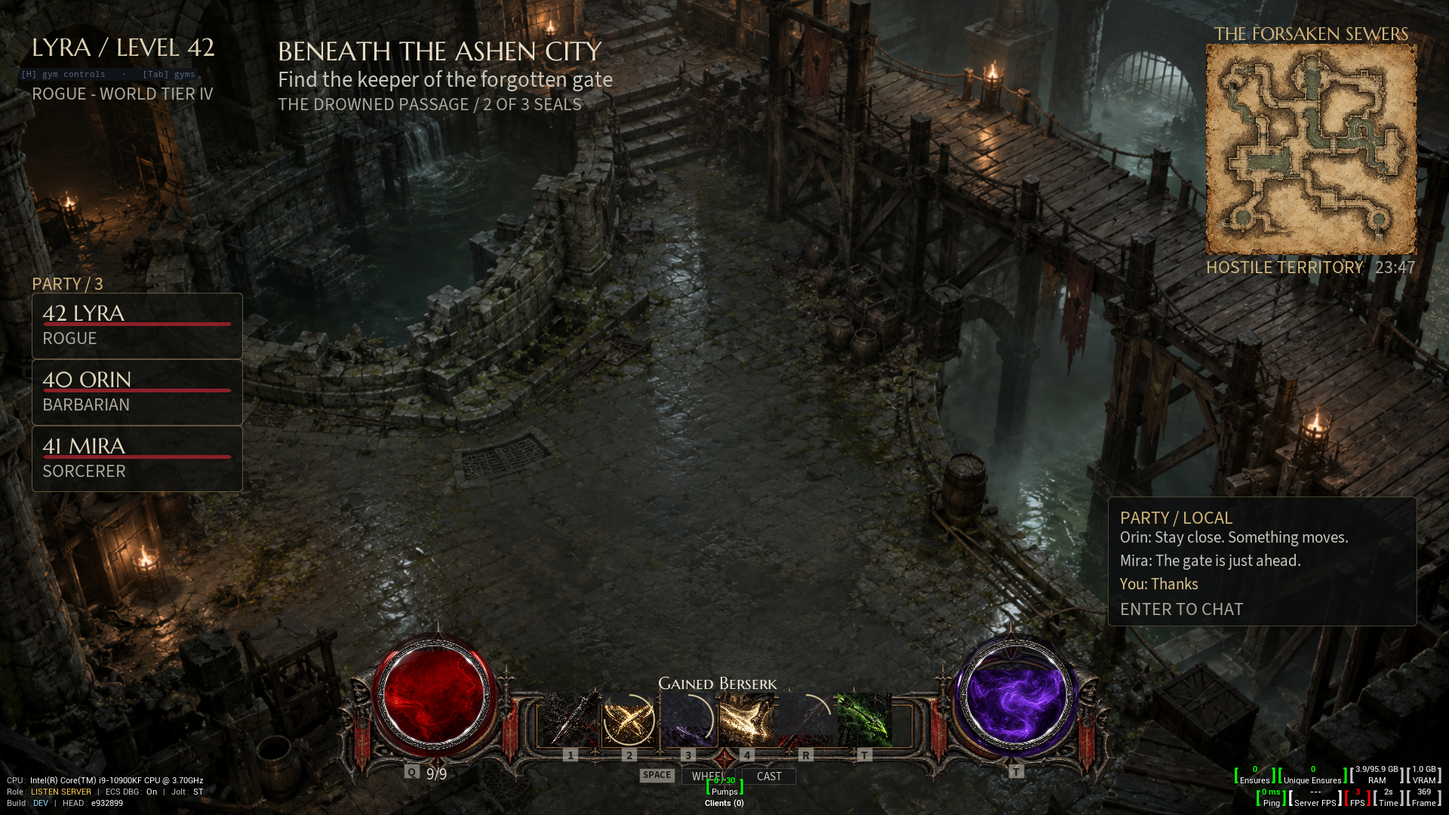
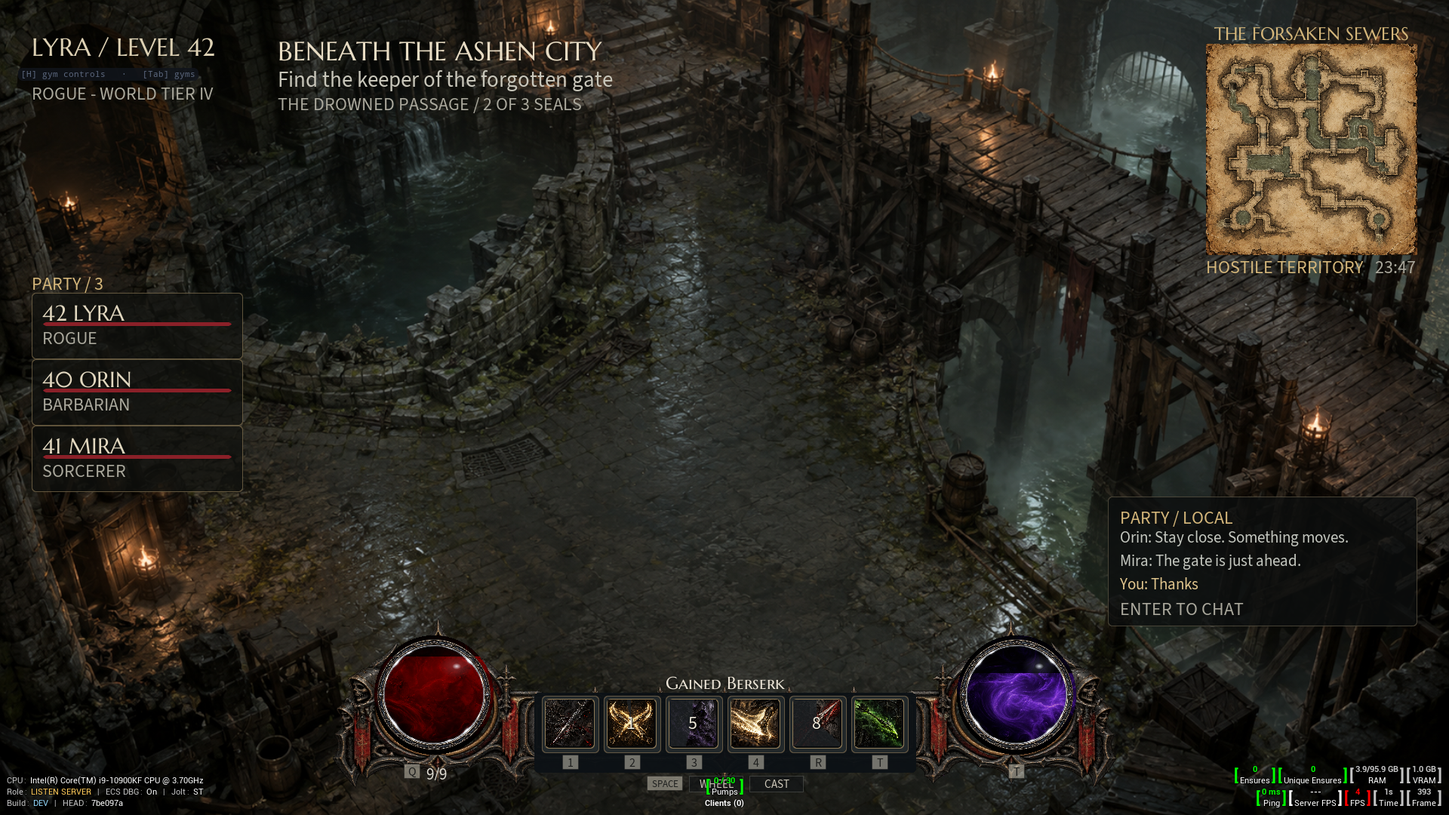
docs(ui): record animated HUD proof and remaining limits
Refresh the widget breakdown and native captures at three resolutions, including two orb animation frames. Record the final focused pass and wider 243/246 result with the same three prior failures. Distinguish verified rendering from remaining artwork fidelity, packaging, and DX12 startup gaps.

Changed region(s): [[0.375, 0.7639, 0.75, 0.9778], [0.25, 0.7639, 0.3438, 0.9472], [0.0625, 0.9778, 0.0938, 1.0]]

diff --git a/Documentation/UI/DarkFantasyHudProof/widget-breakdown.md b/Documentation/UI/DarkFantasyHudProof/widget-breakdown.md
@@ -1,108 +1,102 @@
 # Widget breakdown
 
-The UMG shell is `FantasyOverlay` (`UOverlay`), `FantasyBackdropScale` (`UScaleBox`), `FantasyBackdrop` (`UImage`), `FantasyScale` (`UScaleBox`), `FantasyFrame` (`USizeBox`, 1920×1080), and `FantasySurface` (`UCk_UI_AuthoredSurface_UE`). Every HUD label and control below belongs to the code-authored main region. The backdrop is scenery only.
+The UMG shell creates the scenery backdrop and a ScaleToFit 1920 x 1080 authored surface. The main region has 79 source IDs. The six spell use IDs appear below; template-local IDs are separate because the contract validator inventories only the region source tree.
 
-| Widget id | Tag | Parent | Binding / visibility / action / class | Text or role |
+The spell-slot template declares image art, number cooldown, number remaining, and literal key parameters. Each instance expands to slot (column), frame (column), inlay (column), art (hud-ability), and key (key-hint). CSS sizes the nested frame at 76 x 76, inlay at 66 x 66, and art at 62 x 62. The key hint is a centered native text widget; only an authored action makes it interactive.
+
+| Instance | Art | Cooldown fraction | Seconds remaining | Key |
 | --- | --- | --- | --- | --- |
-| `fantasy-root` | `overlay` | `shell` | — | — |
-| `ornamental-frame` | `hud-graphic` | `fantasy-root` | image-bind=HudFrame | — |
-| `hud-layout` | `column` | `fantasy-root` | — | — |
-| `header` | `row` | `hud-layout` | — | — |
-| `player-header` | `column` | `header` | — | — |
-| `player-name` | `text` | `player-header` | — | LYRA / LEVEL 42 |
-| `player-class` | `text` | `player-header` | — | ROGUE - WORLD TIER IV |
-| `quest` | `column` | `header` | — | — |
-| `quest-title` | `text` | `quest` | — | BENEATH THE ASHEN CITY |
-| `quest-objective` | `text` | `quest` | — | Find the keeper of the forgotten gate |
-| `quest-progress` | `text` | `quest` | — | THE DROWNED PASSAGE / 2 OF 3 SEALS |
-| `map-panel` | `column` | `header` | — | — |
-| `map-title` | `text` | `map-panel` | — | THE FORSAKEN SEWERS |
-| `minimap` | `hud-graphic` | `map-panel` | image-bind=Minimap | — |
-| `map-meta` | `row` | `map-panel` | — | — |
-| `map-danger` | `text` | `map-meta` | — | HOSTILE TERRITORY |
-| `map-time` | `text` | `map-meta` | — | 23:47 |
-| `playfield` | `row` | `hud-layout` | — | — |
-| `party` | `column` | `playfield` | — | — |
-| `party-title` | `text` | `party` | — | PARTY / 3 |
-| `party-lyra` | `column` | `party` | — | — |
-| `party-lyra-name` | `text` | `party-lyra` | — | 42  LYRA |
-| `party-lyra-vitals` | `column` | `party-lyra` | — | — |
-| `party-lyra-class` | `text` | `party-lyra` | — | ROGUE |
-| `party-orin` | `column` | `party` | — | — |
-| `party-orin-name` | `text` | `party-orin` | — | 40  ORIN |
-| `party-orin-vitals` | `column` | `party-orin` | — | — |
-| `party-orin-class` | `text` | `party-orin` | — | BARBARIAN |
-| `party-mira` | `column` | `party` | — | — |
-| `party-mira-name` | `text` | `party-mira` | — | 41  MIRA |
-| `party-mira-vitals` | `column` | `party-mira` | — | — |
-| `party-mira-class` | `text` | `party-mira` | — | SORCERER |
-| `playfield-spacer` | `column` | `playfield` | — | — |
-| `chat-zone` | `column` | `playfield` | — | — |
-| `chat-top-space` | `column` | `chat-zone` | — | — |
-| `chat` | `column` | `chat-zone` | — | — |
-| `chat-channel` | `text` | `chat` | — | PARTY / LOCAL |
-| `chat-orin` | `text` | `chat` | — | Orin: Stay close. Something moves. |
-| `chat-mira` | `text` | `chat` | — | Mira: The gate is just ahead. |
-| `chat-action` | `text` | `chat` | bind=ActionStatus | — |
-| `chat-hint` | `text` | `chat` | — | ENTER TO CHAT |
-| `bottom-hud` | `row` | `hud-layout` | — | — |
-| `health-panel` | `column` | `bottom-hud` | — | — |
-| `health-orb` | `hud-orb` | `health-panel` | value-bind=HealthFraction, liquid-bind=OrbHealth, frame-bind=OrbBezel | — |
-| `potion-hint` | `row` | `health-panel` | — | — |
-| `potion-keycap` | `column` | `potion-hint` | — | — |
-| `potion-key` | `text` | `potion-keycap` | — | Q |
-| `potion-count` | `text` | `potion-hint` | — | 9/9 |
-| `hotbar-panel` | `column` | `bottom-hud` | — | — |
-| `hotbar-caption` | `text` | `hotbar-panel` | — | Gained Berserk |
-| `hotbar` | `row` | `hotbar-panel` | — | — |
-| `skill-1` | `column` | `hotbar` | — | — |
-| `ability-cut` | `hud-ability` | `skill-1` | cooldown-bind=CooldownReady, image-bind=AbilityCut | — |
-| `skill-1-keycap` | `column` | `skill-1` | — | — |
-| `skill-1-key` | `text` | `skill-1-keycap` | — | 1 |
-| `skill-2` | `column` | `hotbar` | — | — |
-| `ability-flurry` | `hud-ability` | `skill-2` | cooldown-bind=CooldownFlurry, image-bind=AbilityFlurry | — |
-| `skill-2-keycap` | `column` | `skill-2` | — | — |
-| `skill-2-key` | `text` | `skill-2-keycap` | — | 2 |
-| `skill-3` | `column` | `hotbar` | — | — |
-| `ability-shadow` | `hud-ability` | `skill-3` | cooldown-bind=SkillCooldown, image-bind=AbilityShadow | — |
-| `skill-3-keycap` | `column` | `skill-3` | — | — |
-| `skill-3-key` | `text` | `skill-3-keycap` | — | 3 |
-| `skill-4` | `column` | `hotbar` | — | — |
-| `ability-dash` | `hud-ability` | `skill-4` | cooldown-bind=CooldownReady, image-bind=AbilityDash | — |
-| `skill-4-keycap` | `column` | `skill-4` | — | — |
-| `skill-4-key` | `text` | `skill-4-keycap` | — | 4 |
-| `skill-left` | `column` | `hotbar` | — | — |
-| `ability-strike` | `hud-ability` | `skill-left` | cooldown-bind=CooldownStrike, image-bind=AbilityStrike | — |
-| `skill-left-keycap` | `column` | `skill-left` | — | — |
-| `skill-left-key` | `text` | `skill-left-keycap` | — | R |
-| `skill-right` | `column` | `hotbar` | — | — |
-| `ability-pierce` | `hud-ability` | `skill-right` | cooldown-bind=CooldownReady, image-bind=AbilityPierce | — |
-| `skill-right-keycap` | `column` | `skill-right` | — | — |
-| `skill-right-key` | `text` | `skill-right-keycap` | — | T |
-| `utility-row` | `row` | `hotbar-panel` | — | — |
-| `evade-keycap` | `column` | `utility-row` | — | — |
-| `evade-hint` | `text` | `evade-keycap` | — | SPACE |
-| `open-wheel` | `button` | `utility-row` | action=OpenWheel | WHEEL |
-| `advance-cooldown` | `button` | `utility-row` | action=AdvanceCooldown | CAST |
-| `mana-panel` | `column` | `bottom-hud` | — | — |
-| `mana-orb` | `hud-orb` | `mana-panel` | value-bind=ManaFraction, liquid-bind=OrbEnergy, frame-bind=OrbBezel | — |
-| `resource-keycap` | `column` | `mana-panel` | — | — |
-| `resource-hint` | `text` | `resource-keycap` | — | T |
-| `wheel-zone` | `column` | `fantasy-root` | visible=WheelOpen | — |
-| `wheel-dots` | `row` | `wheel-zone` | — | — |
-| `dot-active` | `text` | `wheel-dots` | — | ● |
-| `dot-two` | `text` | `wheel-dots` | — | ● |
-| `dot-three` | `text` | `wheel-dots` | — | ● |
-| `wheel-stage` | `overlay` | `wheel-zone` | — | — |
-| `wheel-vignette` | `hud-graphic` | `wheel-stage` | image-bind=WheelVignette, visible=WheelOpen | — |
-| `interaction-wheel` | `radial-selector` | `wheel-stage` | items-bind=Interactions, selection-bind=Selection, select=SelectInteraction, activate=ActivateInteraction, visible=WheelOpen, font-family=fantasy-ui | — |
-| `wheel-center` | `column` | `interaction-wheel` | — | — |
-| `center-top-space` | `column` | `wheel-center` | — | — |
-| `center-disc` | `column` | `wheel-center` | — | — |
-| `close-wheel` | `button` | `center-disc` | action=CloseWheel | E |
-| `wheel-close-label` | `text` | `center-disc` | — | Close |
-| `center-bottom-space` | `column` | `wheel-center` | — | — |
-| `customize-shell` | `column` | `wheel-zone` | — | — |
-| `customize-wheel` | `button` | `customize-shell` | action=ResetFixture | CUSTOMIZE |
+| skill-1 | AbilityCut | CooldownReady | RemainingReady | 1 |
+| skill-2 | AbilityFlurry | CooldownFlurry | RemainingFlurry | 2 |
+| skill-3 | AbilityShadow | SkillCooldown | RemainingShadow | 3 |
+| skill-4 | AbilityDash | CooldownReady | RemainingReady | 4 |
+| skill-left | AbilityStrike | CooldownStrike | RemainingStrike | R |
+| skill-right | AbilityPierce | CooldownReady | RemainingReady | T |
 
-`interaction-wheel` also renders eight keyed native collection records. Each record has `actor:Text`, `glyph:Text`, `angle:Number`, `cooldown:Number`, `enabled:Bool`, `queued:Bool`, and `image:Image`. The image field carries its ivory gesture art; actor labels and the selection wedge remain live. The `wheel-center` content slot owns the E/Close control. Six `hud-ability` controls each bind live cooldown state and generated spell art. Two `hud-orb` controls bind live values, generated liquid art, and a shared generated bezel. The keycap columns provide translucent backgrounds while their intrinsic-width text children center the glyphs.
+Shadow, flurry, and strike start at 6.2/10, 1.92/8, and 9.36/12 seconds. Widget Tick decrements seconds and derives the fractions; ready slots stay at zero. CAST and gym key 0 restart shadow at 10 seconds. Reset restores the initial values.
+
+The orb maps moving liquid UVs onto circular geometry under fixed lighting and a separate glass highlight, with the fill clipped by its bound fraction. The spell uses a clockwise radial cooldown mask and a centered remaining-seconds label while active. Current visual verification is pending; earlier screenshots predate this revision.
+
+| Widget ID | Tag | Parent | Source binding, action, or literal |
+| --- | --- | --- | --- |
+| fantasy-root | overlay | main region | - |
+| ornamental-frame | hud-graphic | fantasy-root | image-bind=HudFrame |
+| hud-layout | column | fantasy-root | - |
+| header | row | hud-layout | - |
+| player-header | column | header | - |
+| player-name | text | player-header | text=LYRA / LEVEL 42 |
+| player-class | text | player-header | text=ROGUE - WORLD TIER IV |
+| quest | column | header | - |
+| quest-title | text | quest | text=BENEATH THE ASHEN CITY |
+| quest-objective | text | quest | text=Find the keeper of the forgotten gate |
+| quest-progress | text | quest | text=THE DROWNED PASSAGE / 2 OF 3 SEALS |
+| map-panel | column | header | - |
+| map-title | text | map-panel | text=THE FORSAKEN SEWERS |
+| minimap | hud-graphic | map-panel | image-bind=Minimap |
+| map-meta | row | map-panel | - |
+| map-danger | text | map-meta | text=HOSTILE TERRITORY |
+| map-time | text | map-meta | text=23:47 |
+| playfield | row | hud-layout | - |
+| party | column | playfield | - |
+| party-title | text | party | text=PARTY / 3 |
+| party-lyra | column | party | - |
+| party-lyra-name | text | party-lyra | text=42  LYRA |
+| party-lyra-vitals | column | party-lyra | - |
+| party-lyra-class | text | party-lyra | text=ROGUE |
+| party-orin | column | party | - |
+| party-orin-name | text | party-orin | text=40  ORIN |
+| party-orin-vitals | column | party-orin | - |
+| party-orin-class | text | party-orin | text=BARBARIAN |
+| party-mira | column | party | - |
+| party-mira-name | text | party-mira | text=41  MIRA |
+| party-mira-vitals | column | party-mira | - |
+| party-mira-class | text | party-mira | text=SORCERER |
+| playfield-spacer | column | playfield | - |
+| chat-zone | column | playfield | - |
+| chat-top-space | column | chat-zone | - |
+| chat | column | chat-zone | - |
+| chat-channel | text | chat | text=PARTY / LOCAL |
+| chat-orin | text | chat | text=Orin: Stay close. Something moves. |
+| chat-mira | text | chat | text=Mira: The gate is just ahead. |
+| chat-action | text | chat | bind=ActionStatus |
+| chat-hint | text | chat | text=ENTER TO CHAT |
+| bottom-hud | row | hud-layout | - |
+| health-panel | column | bottom-hud | - |
+| health-orb | hud-orb | health-panel | value-bind=HealthFraction, liquid-bind=OrbHealth, frame-bind=OrbBezel |
+| potion-hint | row | health-panel | - |
+| potion-key | key-hint | potion-hint | label=Q, font-family=fantasy-ui |
+| potion-count | text | potion-hint | text=9/9 |
+| hotbar-panel | column | bottom-hud | - |
+| hotbar-caption | text | hotbar-panel | text=Gained Berserk |
+| hotbar | row | hotbar-panel | - |
+| skill-1 | use | hotbar | template=spell-slot, art-bind=AbilityCut, cooldown-bind=CooldownReady, remaining-bind=RemainingReady, key=1 |
+| skill-2 | use | hotbar | template=spell-slot, art-bind=AbilityFlurry, cooldown-bind=CooldownFlurry, remaining-bind=RemainingFlurry, key=2 |
+| skill-3 | use | hotbar | template=spell-slot, art-bind=AbilityShadow, cooldown-bind=SkillCooldown, remaining-bind=RemainingShadow, key=3 |
+| skill-4 | use | hotbar | template=spell-slot, art-bind=AbilityDash, cooldown-bind=CooldownReady, remaining-bind=RemainingReady, key=4 |
+| skill-left | use | hotbar | template=spell-slot, art-bind=AbilityStrike, cooldown-bind=CooldownStrike, remaining-bind=RemainingStrike, key=R |
+| skill-right | use | hotbar | template=spell-slot, art-bind=AbilityPierce, cooldown-bind=CooldownReady, remaining-bind=RemainingReady, key=T |
+| utility-row | row | hotbar-panel | - |
+| evade-hint | key-hint | utility-row | label=SPACE, font-family=fantasy-ui |
+| open-wheel | button | utility-row | action=OpenWheel, text=WHEEL |
+| advance-cooldown | button | utility-row | action=AdvanceCooldown, text=CAST |
+| mana-panel | column | bottom-hud | - |
+| mana-orb | hud-orb | mana-panel | value-bind=ManaFraction, liquid-bind=OrbEnergy, frame-bind=OrbBezel |
+| resource-hint | key-hint | mana-panel | label=T, font-family=fantasy-ui |
+| wheel-zone | column | fantasy-root | visible=WheelOpen |
+| wheel-dots | row | wheel-zone | - |
+| dot-active | text | wheel-dots | text=● |
+| dot-two | text | wheel-dots | text=● |
+| dot-three | text | wheel-dots | text=● |
+| wheel-stage | overlay | wheel-zone | - |
+| wheel-vignette | hud-graphic | wheel-stage | image-bind=WheelVignette, visible=WheelOpen |
+| interaction-wheel | radial-selector | wheel-stage | items-bind=Interactions, selection-bind=Selection, select=SelectInteraction, activate=ActivateInteraction, visible=WheelOpen, font-family=fantasy-ui |
+| wheel-center | column | interaction-wheel | - |
+| center-top-space | column | wheel-center | - |
+| center-disc | column | wheel-center | - |
+| close-wheel | key-hint | center-disc | label=E, action=CloseWheel, font-family=fantasy-ui |
+| wheel-close-label | text | center-disc | text=Close |
+| center-bottom-space | column | wheel-center | - |
+| customize-shell | column | wheel-zone | - |
+| customize-wheel | button | customize-shell | action=ResetFixture, text=CUSTOMIZE |
+
+The interaction-wheel renders eight collection records keyed by greet, thanks, follow, wait, help, trade, inspect, and leave. Each record has text actor/glyph, numeric angle/cooldown, bool enabled/queued, and image art. The wheel-center slot contains the actionable E key hint and Close label.

diff --git a/Documentation/UI/DarkFantasyHudProof/pipeline-findings.md b/Documentation/UI/DarkFantasyHudProof/pipeline-findings.md
@@ -1,21 +1,22 @@
 # Pipeline findings and limits
 
-The existing HTML/CSS-to-Slate pipeline can drive this in-game UMG composition through code. The gym uses the same retained session, source admission, mount, reload, and action routing as the earlier proofs. HTML supplies hierarchy; CSS supplies dimensions, color, alignment, font families, opacity, and control styling; AngelScript supplies data, artwork, and behavior. No per-widget Blueprint graph or editor authoring is needed for this fixture.
+The HTML/CSS-to-Slate pipeline drives this UMG composition with a retained authored session. HTML declares hierarchy, templates, bindings, and actions; CSS supplies geometry, color, typography, and native custom styles; AngelScript supplies data, art, timer state, and lifecycle. The shell supplies scenery and scales the authored surface. The [source inventory](widget-breakdown.md) and [contract](design-contract.json) reflect the current markup.
 
-This proof exposed capability gaps and led to reusable native extensions:
-
-| Need from reference | Pipeline addition | Current evidence |
+| Need | Shared implementation | Current source behavior |
 | --- | --- | --- |
-| Red and violet potion-like resource orbs | `<hud-orb>` binds a value, liquid image, and frame image; native renderer clips liquid vertically and smooths the transition | Focused PIE and 720p/1080p/1350p captures show live artwork in circular frames |
-| Spell artwork with graphical timers | `<hud-ability>` binds artwork and cooldown; native renderer draws a dark shade and progress rim | Six separate cooldown bindings exercised in the gym |
-| Illustrated wheel options | Reflected collection `Image` field retains a texture brush and checks invalid/no-op replacements atomically; radial selector reads per-record image | Collection-image roundtrip/rejection test passed; eight icon images appear in the wheel |
-| Translucent segmented wheel with exact labels | `-ck-radial-fantasy-mode` adds wedge, spokes, ring, external labels, and icon painting; radial font-family resolves the admitted authored font | Focused PIE and real-renderer captures passed |
-| Centered, faint key hints | Authored keycap containers with intrinsic-width text; translucent RGBA CSS color | Latest captures show smaller, centered labels without fully opaque blocks |
+| Circular red and violet resource orbs | hud-orb binds fraction, liquid image, and bezel image; a circular mesh animates liquid UVs under fixed lighting, with a stationary glass highlight | Script health and mana changes drive vertically clipped fills; final rendered captures and phase comparison verify moving liquid |
+| Six framed spells with visible cooldown | One spell-slot template expands into frame, inlay, hud-ability, and key-hint; hud-ability draws a clockwise radial mask and remaining-seconds label | Six instances bind art, fraction, seconds, and key; shadow/flurry/strike tick at 10/8/12-second durations, ready slots stay zero |
+| Consistent key legends | Reusable retained key-hint supports literal label, admitted font family, CSS styling, and optional action | E closes the wheel; spell, potion, resource, and SPACE hints are passive; native text measurement centers all labels |
+| Centered caption text | Shared authored text-align: center maps to native text justification | Hotbar caption declares the property; native text alignment test passed |
+| Illustrated wheel options | Collection Image field retains an admitted texture brush; radial selector reads record images and admitted font | Eight keyed images and labels are declared; previous collection-image rejection test passed |
+| Fantasy wheel geometry | Radial fantasy mode paints wedge, spokes, ring, labels, and icons beneath the center slot | final focused renderer captures retain the wheel and show a centered E hint |
 
-The user's hotbar observation exposed a separate **composition limit**. The six spells already use a nested horizontal `row` of per-spell `column` widgets, so flex layout is doing its job. Their borders, however, are baked into one large `ornamental-hud-frame.png` image behind the row. Layout knows only that image's rectangle; it cannot infer the six transparent apertures inside it. The earlier art row sat above those apertures. We matched the row's width, padding, gap, tile size, and vertical placement to the image, and the latest captures show the tiles in the openings. This is authored coordinate matching, not a reusable constraint between image features and child slots. For a production HUD, use six individually composed slot frames or add explicit slot metadata/anchors to the art asset so slot geometry and content share one source of truth. A plain nested horizontal box cannot discover raster openings on its own.
+Each spell frame is now authored as a nested box around its art, so the border, inlay, and content share layout geometry. The ornamental frame remains separate artwork behind the bar; a continuous authored backing covers its central apertures, and the six new slot frames own their content bounds. Dedicated ornamental slot artwork would improve fidelity without changing the layout contract. The previous offset between spell art and apertures was an authoring alignment issue, not a failure of the row layout.
 
-Text backgrounds also exposed a grammar limit: the current `<text>` styling does not provide a text-align property for glyph alignment inside a fixed-width text widget. `horizontal-align` positions the widget in its parent. Removing the text width lets the parent center its intrinsic text widget. Ordinary `<button>` supports `-ck-button-text-align` and `-ck-button-content-vertical-align`. The container workaround is adequate here, but a true text alignment property would be useful for localized key hints and dynamic labels.
+The orb and cooldown geometry is reusable native rendering code rather than baked animation. The orb's UV motion and lighting field are separate, which keeps the highlight fixed while liquid moves. The mask and timer read live scalar bindings. The authored session currently offers individual TrySetNumber calls rather than a batch scalar update; the gym retires the surface if a required cooldown publication fails, so a partially updated display does not continue running.
 
-Other limits remain: the minimap, party list, quest, clock, and chat are illustrative; the reference game art and proprietary font were not copied; the 1920×1080 fixed canvas needs safe-zone, aspect-ratio, and type-size rules for shipping; live gameplay adapters and cooked resource packaging are unproven. The current wheel and generated art are visually related to the reference, not pixel-matched. The source validator checks IDs, classes, and selector shape but leaves declarations, bindings, and rendering to runtime admission and tests. DX12 rendered testing remains blocked by a startup shader-frequency assertion; the cause is not established.
+The minimap, party list, quest, clock, and chat remain illustrative. The reference game's artwork and proprietary font were not copied. The fixed 1920 x 1080 canvas still needs shipping safe-zone, aspect-ratio, and type-size rules, live gameplay adapters, and cooked resource verification. The generated art and frame topology do not establish a pixel match to the supplied reference.
 
-Failure behavior remains atomic where it matters: the collection image adapter rejects invalid textures without publishing a partial collection, preserves the previous brush on no-op records, and retains valid texture resources. The gym releases its session on required startup failure and on shutdown. Its invalid-source action verifies that a rejected document does not replace the admitted live UI. The final wide run's three non-HUD failures (`PauseMenuProof.GymSelector.PIE`, `ScriptedCollection.PIE`, `ScriptingCard.PIE`) need isolated triage before any repository-wide regression claim; the preceding wide run had a different set of non-HUD failures.
+Verification on 2026-10-07: incremental C++ build passed; the 246-test UI-authoring run passed 243, including the new key-hint, text-alignment, and mesh tests. The same prior pause-menu and two capture-bound failures remained. Visual inspection caught that a null texture proxy caused color-only meshes to be skipped; allowing Slate's white fallback fixed both cooldown shade and glass lobes. The final focused DarkFantasy run passed 3/3 with an added real-pixel cooldown regression and captures at 720p, 1080p, and 1350p. Texture-region pixel comparisons confirm animation. This is focused verification, not a repository-wide green verdict.
+
+The template-aware source validator and its 18 Python tests pass. Runtime admission still owns widget property types and values. DX12 previously stopped at an engine startup shader-frequency assertion; the final visual run used DX11 temporarily, and the original config was restored exactly.

diff --git a/Documentation/UI/DarkFantasyHudProof/README.md b/Documentation/UI/DarkFantasyHudProof/README.md
@@ -1,13 +1,17 @@
 # Dark fantasy action RPG HUD proof
 
-Select `UI: Dark Fantasy HUD` in the CkTests gym selector. This is a code-authored attempt to reproduce the structure and interactions of the supplied action-RPG reference. The native UMG shell holds only the scene backdrop and a 1920×1080 `UCk_UI_AuthoredSurface_UE` in a `ScaleToFit` box. [Markup](../../../Resources/UiAuthoring/DarkFantasyHudProof/DarkFantasyHudProof.ui.html) defines the widget tree and content; [CSS](../../../Resources/UiAuthoring/DarkFantasyHudProof/DarkFantasyHudProof.ui.css) sets layout and appearance; [AngelScript](../../../Script/CkUiAuthoring/CkDarkFantasyHud_Gym.as) owns state, resources, actions, and teardown. The UI is rendered as live widgets, not a flattened screenshot.
+Select UI: Dark Fantasy HUD in the CkTests gym selector. The native UMG shell contains the scenery backdrop and a 1920 x 1080 authored surface in a ScaleToFit box. [Markup](../../../Resources/UiAuthoring/DarkFantasyHudProof/DarkFantasyHudProof.ui.html) owns the HUD hierarchy and content, [CSS](../../../Resources/UiAuthoring/DarkFantasyHudProof/DarkFantasyHudProof.ui.css) owns layout and appearance, and [AngelScript](../../../Script/CkUiAuthoring/CkDarkFantasyHud_Gym.as) owns state, art resources, actions, and teardown. These are live widgets, not a flattened screenshot.
 
-The proof includes a party panel, quest text, minimap, chat, two vertically filled animated liquid orbs, six image-backed spells with graphical cooldowns, key hints, and an eight-sector interaction wheel. The wheel uses a translucent vignette, thin sector lines, a highlighted red wedge, collection-backed icon images, external labels, and a center E/Close control. It is open by default. The hotbar's `CAST` action and gym key 0 advance the cooldown demonstration; damage, healing, and mana actions animate the orbs. `CUSTOMIZE` resets the fixture. UI text uses bundled OFL-licensed [Marcellus SC](https://github.com/google/fonts/tree/main/ofl/marcellussc) and [Source Sans 3](https://github.com/adobe-fonts/source-sans); the font licenses ship with the resources.
+The main region has 79 source IDs. A reusable spell-slot template composes each of six spells from an outer frame, inner inlay, image-backed hud-ability, and shared native key-hint. The active abilities use a clockwise cooldown mask and centered seconds label. Shadow, flurry, and strike start with 6.2/10, 1.92/8, and 9.36/12 seconds remaining; script Tick advances them. Ready slots remain at zero. CAST and gym key 0 restart shadow at 10 seconds. CUSTOMIZE and gym key 7 restore the fixture. The reusable key-hint centers a literal label and accepts an optional action; the wheel's E hint closes the wheel, while passive hints label the spells and resources. Authored text supports text-align: center for the hotbar caption.
 
-Gym keys: 1 toggles the wheel, 2 damages, 3 heals, 4 spends mana, 5 selects the next interaction, 6 activates it, 7 resets, 8 reloads source, 9 attempts an invalid source, and 0 advances a spell cooldown. The radial control also supports native pointer and keyboard selection. No game abilities, party AI, quest system, or map navigation are simulated.
+The health and mana orbs use circular geometry with animated liquid UVs under fixed lighting, clipped fill, and a separate glass highlight. The wheel uses a translucent vignette, sector art and labels, eight collection-backed icon images, and a center E/Close control. It opens by default. Bundled OFL-licensed [Marcellus SC](https://github.com/google/fonts/tree/main/ofl/marcellussc) and [Source Sans 3](https://github.com/adobe-fonts/source-sans) supply authored typography; their licenses ship with the resources.
 
-The most recent real-renderer captures are [720p](Captures/open-1280x720.png), [1080p](Captures/open-1920x1080.png), [1350p](Captures/open-2400x1350.png), and [closed wheel](Captures/closed-1920x1080.png). The six spell images now sit inside the ornamental frame apertures; keycap text is centered at intrinsic width, smaller, and backed by translucent panels. The fixed authored canvas scales at 2/3, 1, and 5/4 respectively. Diagnostic text at the bottom of the screenshots belongs to CkTests, outside this HUD.
+Gym keys: 1 toggles the wheel, 2 damages, 3 heals, 4 spends mana, 5 selects the next interaction, 6 activates it, 7 resets, 8 reloads source, 9 attempts an invalid source, and 0 restarts the shadow cooldown. The radial control supports native pointer and keyboard selection. No game abilities, party AI, quest system, or map navigation are simulated.
 
-Verification: the Development editor build succeeded; the new collection-image roundtrip/atomic-rejection test passed; the final focused `Ck.UiAuthoring.DarkFantasy` real-renderer run passed 3/3 with captures at the three sizes above. The HTML/CSS source contract checks 100 authored nodes. The final wider 243-test UI-authoring run passed 240 and failed three other UI-authoring tests: `PauseMenuProof.GymSelector.PIE`, `ScriptedCollection.PIE`, and `ScriptingCard.PIE`. The earlier wide run had a different set of three non-HUD failures, so a repository-wide green verdict is not established. DX12 rendered verification stopped at an engine shader-frequency assertion before UI tests; focused captures were made under a temporary DX11 setting and the project DX12 config was restored byte-for-byte. Cooked packaging has not been tested.
+The [widget breakdown](widget-breakdown.md) inventories every main-region source ID and the template's local structure. The [design contract](design-contract.json) records source identity, bindings, assets, and cooldown fixture values. [Pipeline findings](pipeline-findings.md) describe the shared controls and remaining limits; [art prompts](image-prompts.md) preserve image provenance.
 
-See the [complete widget breakdown](widget-breakdown.md), [data and art contract](design-contract.json), [art prompts](image-prompts.md), and [pipeline findings](pipeline-findings.md). The visual proof is substantially closer to the reference but does not establish 99% pixel accuracy: the generated artwork and frame topology differ from the game reference, and the six spell positions still require authored matching to a single decorative frame image.
+Verification on 2026-10-07: the incremental editor build passed. The wider `Ck.UiAuthoring` run passed 243/246, including shared key-hint layout/reload/release, text alignment, and HUD geometry tests. Its three failures were `PauseMenuProof.GymSelector.PIE`, `ScriptedCollection.PIE`, and `ScriptingCard.PIE`, matching the previous run. Visual inspection then caught an untextured-brush rendering bug; after correction, the final focused `Ck.UiAuthoring.DarkFantasy` run passed 3/3, including a pixel-based assertion that a full cooldown darkens the tile. No ensure or AngelScript error was found in the final run's log.
+
+Current captures: [720p](Captures/open-1280x720.png), [1080p](Captures/open-1920x1080.png), [1350p](Captures/open-2400x1350.png), [closed wheel](Captures/closed-1920x1080.png), and two orb animation frames [A](Captures/orb-phase-a-1920x1080.png) / [B](Captures/orb-phase-b-1920x1080.png). Pixel comparisons in both liquid regions confirm visible texture motion; geometry tests verify lighting and vertex positions remain fixed while UVs move. These are native rendered captures, not image mockups.
+
+The source contract and 18 Python validator tests pass. Captures used a temporary DX11 setting because prior DX12 startup hit an engine shader-frequency assertion; the original DX12 configuration was restored byte-for-byte. Cooked packaging remains untested. Generated artwork, ornamental details, and the wheel still differ from the game reference; these checks do not establish 99% visual accuracy.
